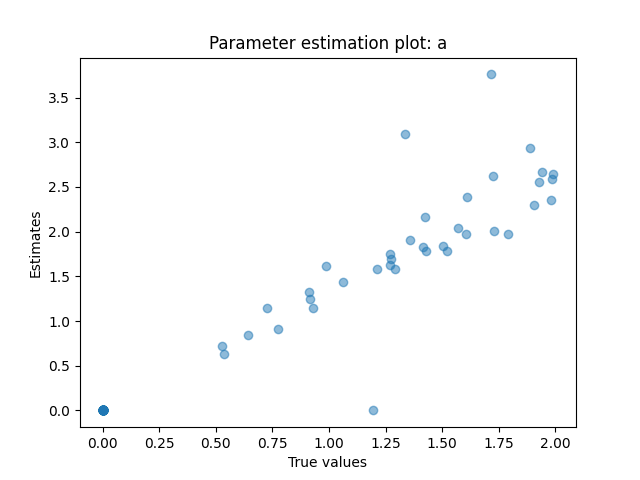
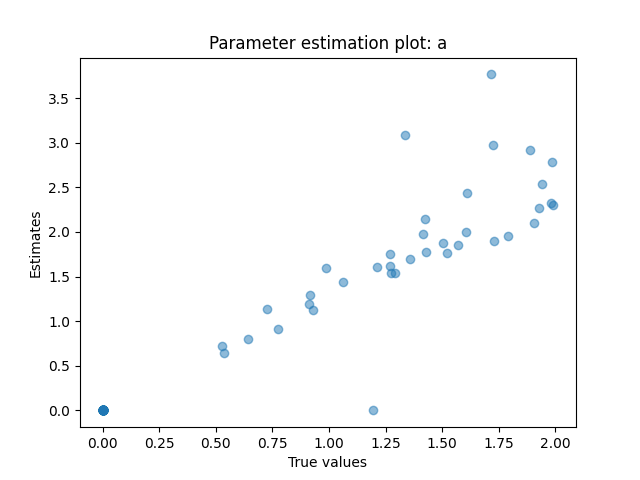
added code for estimating theta

diff --git a/main.py b/main.py
@@ -41,12 +41,13 @@ for epoch in range(num_epochs):
 # save parameter estimates
 a_est = vae.decoder.linear.weight.detach().numpy()
 d_est = vae.decoder.linear.bias.detach().numpy()
+theta_est = vae.encoder.est_theta(dataset.x_train).detach().numpy()
 
 # calculate theta estimates
 # TODO
 
 # invert factors for increased interpretability
-a_est, _ = inv_factors(a_est)
+a_est, theta_est = inv_factors(a_est, theta_est)
 
 # read in true parameter estimates
 a_true = np.loadtxt('./data/a.txt')
@@ -61,6 +62,14 @@ plt.title('Parameter estimation plot: a')
 plt.xlabel('True values')
 plt.ylabel('Estimates')
 plt.savefig('./figures/param_est_plot_a.png')
+
+# parameter estimation plot for theta
+plt.figure()
+plt.scatter(y=theta_est.flatten(), x=theta_true.flatten(), alpha=.5)
+plt.title('Parameter estimation plot: theta')
+plt.xlabel('True values')
+plt.ylabel('Estimates')
+plt.savefig('./figures/param_est_plot_theta.png')
 
 # parameter estimation plot for d
 plt.figure()

diff --git a/model.py b/model.py
@@ -63,6 +63,17 @@ class VariationalEncoder(nn.Module):
         self.kl = torch.mean(-0.5 * torch.sum(1 + torch.log(sigma) - mu ** 2 - torch.log(sigma).exp(), dim = 1), dim = 0)
         return z
 
+    def est_theta(self, x):
+        """
+        estimate theta parameters (latent factor scores)
+        :param x: input data
+        :return: theta estimates
+        """
+        x = F.relu(self.dense1(x))
+        theta_hat = self.dense3m(x)
+        return(theta_hat)
+
+
 
 class Decoder(nn.Module):
     """
